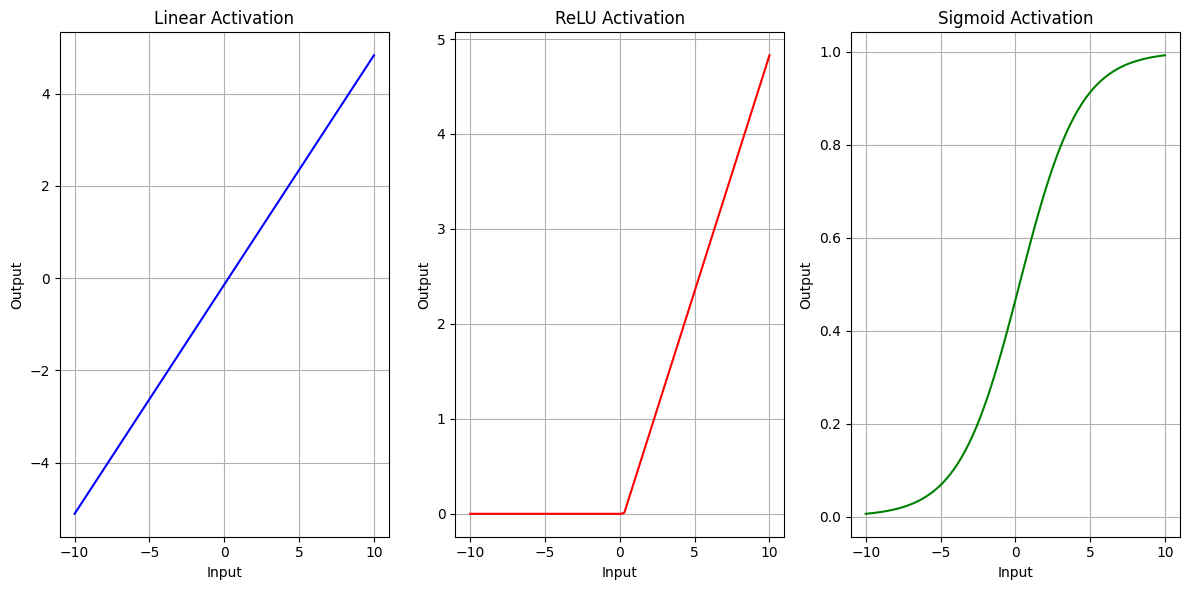
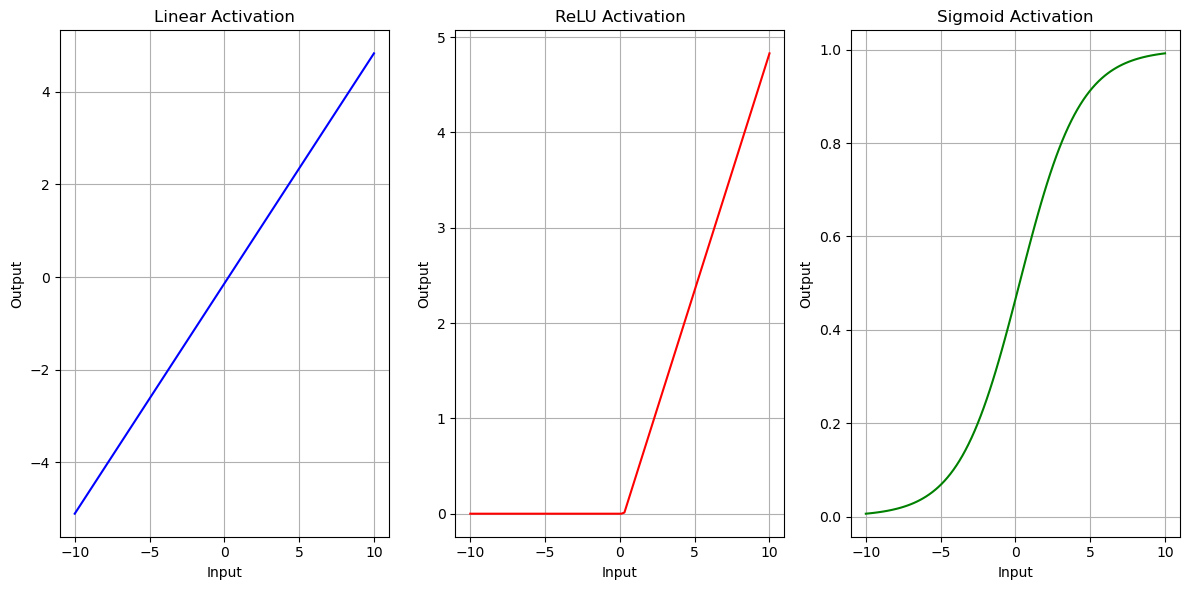
Built site for gh-pages

diff --git a/day2_neural_networks.html b/day2_neural_networks.html
@@ -299,8 +299,8 @@ y = \sigma(W \cdot X + b)
 </ul>
 <p>Where:</p>
 <ul>
-<li><span class="math inline">\(W\)</span>: Weight vector (equivalent to () in regression).</li>
-<li><span class="math inline">\(b\)</span>: Bias term (equivalent to (_0) in regression).</li>
+<li><span class="math inline">\(W\)</span>: Weight vector (equivalent to (<span class="math inline">\(\beta\)</span>) in regression).</li>
+<li><span class="math inline">\(b\)</span>: Bias term (equivalent to (<span class="math inline">\(\beta_0\)</span>) in regression).</li>
 <li><span class="math inline">\(\sigma\)</span>: activation function</li>
 <li>Multiple regression can be seen as a very simple neural network</li>
 </ul>
@@ -346,15 +346,15 @@ y = \sigma(W_2 \cdot \sigma(W_1 \cdot X + b_1) + b_2)
 <section id="activation-functions" class="level3" data-number="3.3.5">
 <h3 data-number="3.3.5" class="anchored" data-anchor-id="activation-functions"><span class="header-section-number">3.3.5</span> Activation Functions</h3>
 <ul>
-<li>Activation functions introduce non-linearity to the model, enabling it to learn complex patterns.</li>
-<li>Common activation functions include:
+<li><p>Activation functions introduce non-linearity to the model, enabling it to learn complex patterns.</p></li>
+<li><p>Common activation functions include:</p>
 <ul>
-<li><strong>ReLU (Rectified Linear Unit)</strong>: $ f(x) = (0, x) $</li>
-<li><strong>Sigmoid</strong>: $ f(x) = $</li>
-<li><strong>Tanh</strong>: $ f(x) = $</li>
+<li><p><strong>ReLU (Rectified Linear Unit)</strong>: $ f(x) = (0, x) $</p></li>
+<li><p><strong>Sigmoid</strong>: $ f(x) = $</p></li>
+<li><p><strong>Tanh</strong>: $ f(x) = $</p></li>
 </ul></li>
 </ul>
-<div id="cell-11" class="cell" data-execution_count="16">
+<div id="cell-11" class="cell" data-execution_count="1">
 <div class="sourceCode cell-code" id="cb1"><pre class="sourceCode python code-with-copy"><code class="sourceCode python"><span id="cb1-1"><a href="#cb1-1" aria-hidden="true" tabindex="-1"></a><span class="im">import</span> numpy <span class="im">as</span> np</span>
 <span id="cb1-2"><a href="#cb1-2" aria-hidden="true" tabindex="-1"></a><span class="im">import</span> matplotlib.pyplot <span class="im">as</span> plt</span>
 <span id="cb1-3"><a href="#cb1-3" aria-hidden="true" tabindex="-1"></a></span>
@@ -427,11 +427,23 @@ y = \sigma(W_2 \cdot \sigma(W_1 \cdot X + b_1) + b_2)
 </ul>
 <section id="example-of-forward-pass-and-loss-function" class="level4" data-number="3.3.6.1">
 <h4 data-number="3.3.6.1" class="anchored" data-anchor-id="example-of-forward-pass-and-loss-function"><span class="header-section-number">3.3.6.1</span> (Example) of Forward Pass and Loss Function</h4>
-<p>Let’s consider a simple neural network with: - <strong>1 Input Layer</strong>: 2 input nodes. - <strong>1 Hidden Layer</strong>: 3 nodes with ReLU (Rectified Linear Unit) activation. - <strong>1 Output Layer</strong>: 1 node with sigmoid activation.</p>
+<ul>
+<li><p>Let’s consider a simple neural network with:</p>
+<ul>
+<li><p><strong>1 Input Layer</strong>: 2 input nodes.</p></li>
+<li><p><strong>1 Hidden Layer</strong>: 3 nodes with ReLU (Rectified Linear Unit) activation.</p></li>
+<li><p><strong>1 Output Layer</strong>: 1 node with sigmoid activation.</p></li>
+</ul></li>
+</ul>
 <p><img src="images/nn_ex.png" class="img-fluid"></p>
-<p>The forward pass computes: 1. <strong>Input to Hidden Layer</strong>: <span class="math display">\[
-   Z^{(1)} = X W^{(1)} + b^{(1)} \\
-\]</span></p>
+<ul>
+<li>The forward pass computes:</li>
+</ul>
+<ol type="1">
+<li><strong>Input to Hidden Layer</strong>: <span class="math display">\[
+Z^{(1)} = X W^{(1)} + b^{(1)} \\
+\]</span></li>
+</ol>
 <p><span class="math display">\[\begin{equation}
 \begin{pmatrix}
 z^{(1)}_1 \\
@@ -622,7 +634,10 @@ L = \frac{1}{n} || y - \hat{y} ||^2 =  \frac{1}{n}\sum(y_i-\hat{y}_i)^2
 </ul>
 <section id="chain-rule" class="level4" data-number="3.3.8.1">
 <h4 data-number="3.3.8.1" class="anchored" data-anchor-id="chain-rule"><span class="header-section-number">3.3.8.1</span> Chain Rule</h4>
-<p>Derivative of a composite function <span class="math display">\[
+<ul>
+<li>Derivative of a composite function</li>
+</ul>
+<p><span class="math display">\[
 z = f(g(x))
 \]</span></p>
 <p><span class="math display">\[
